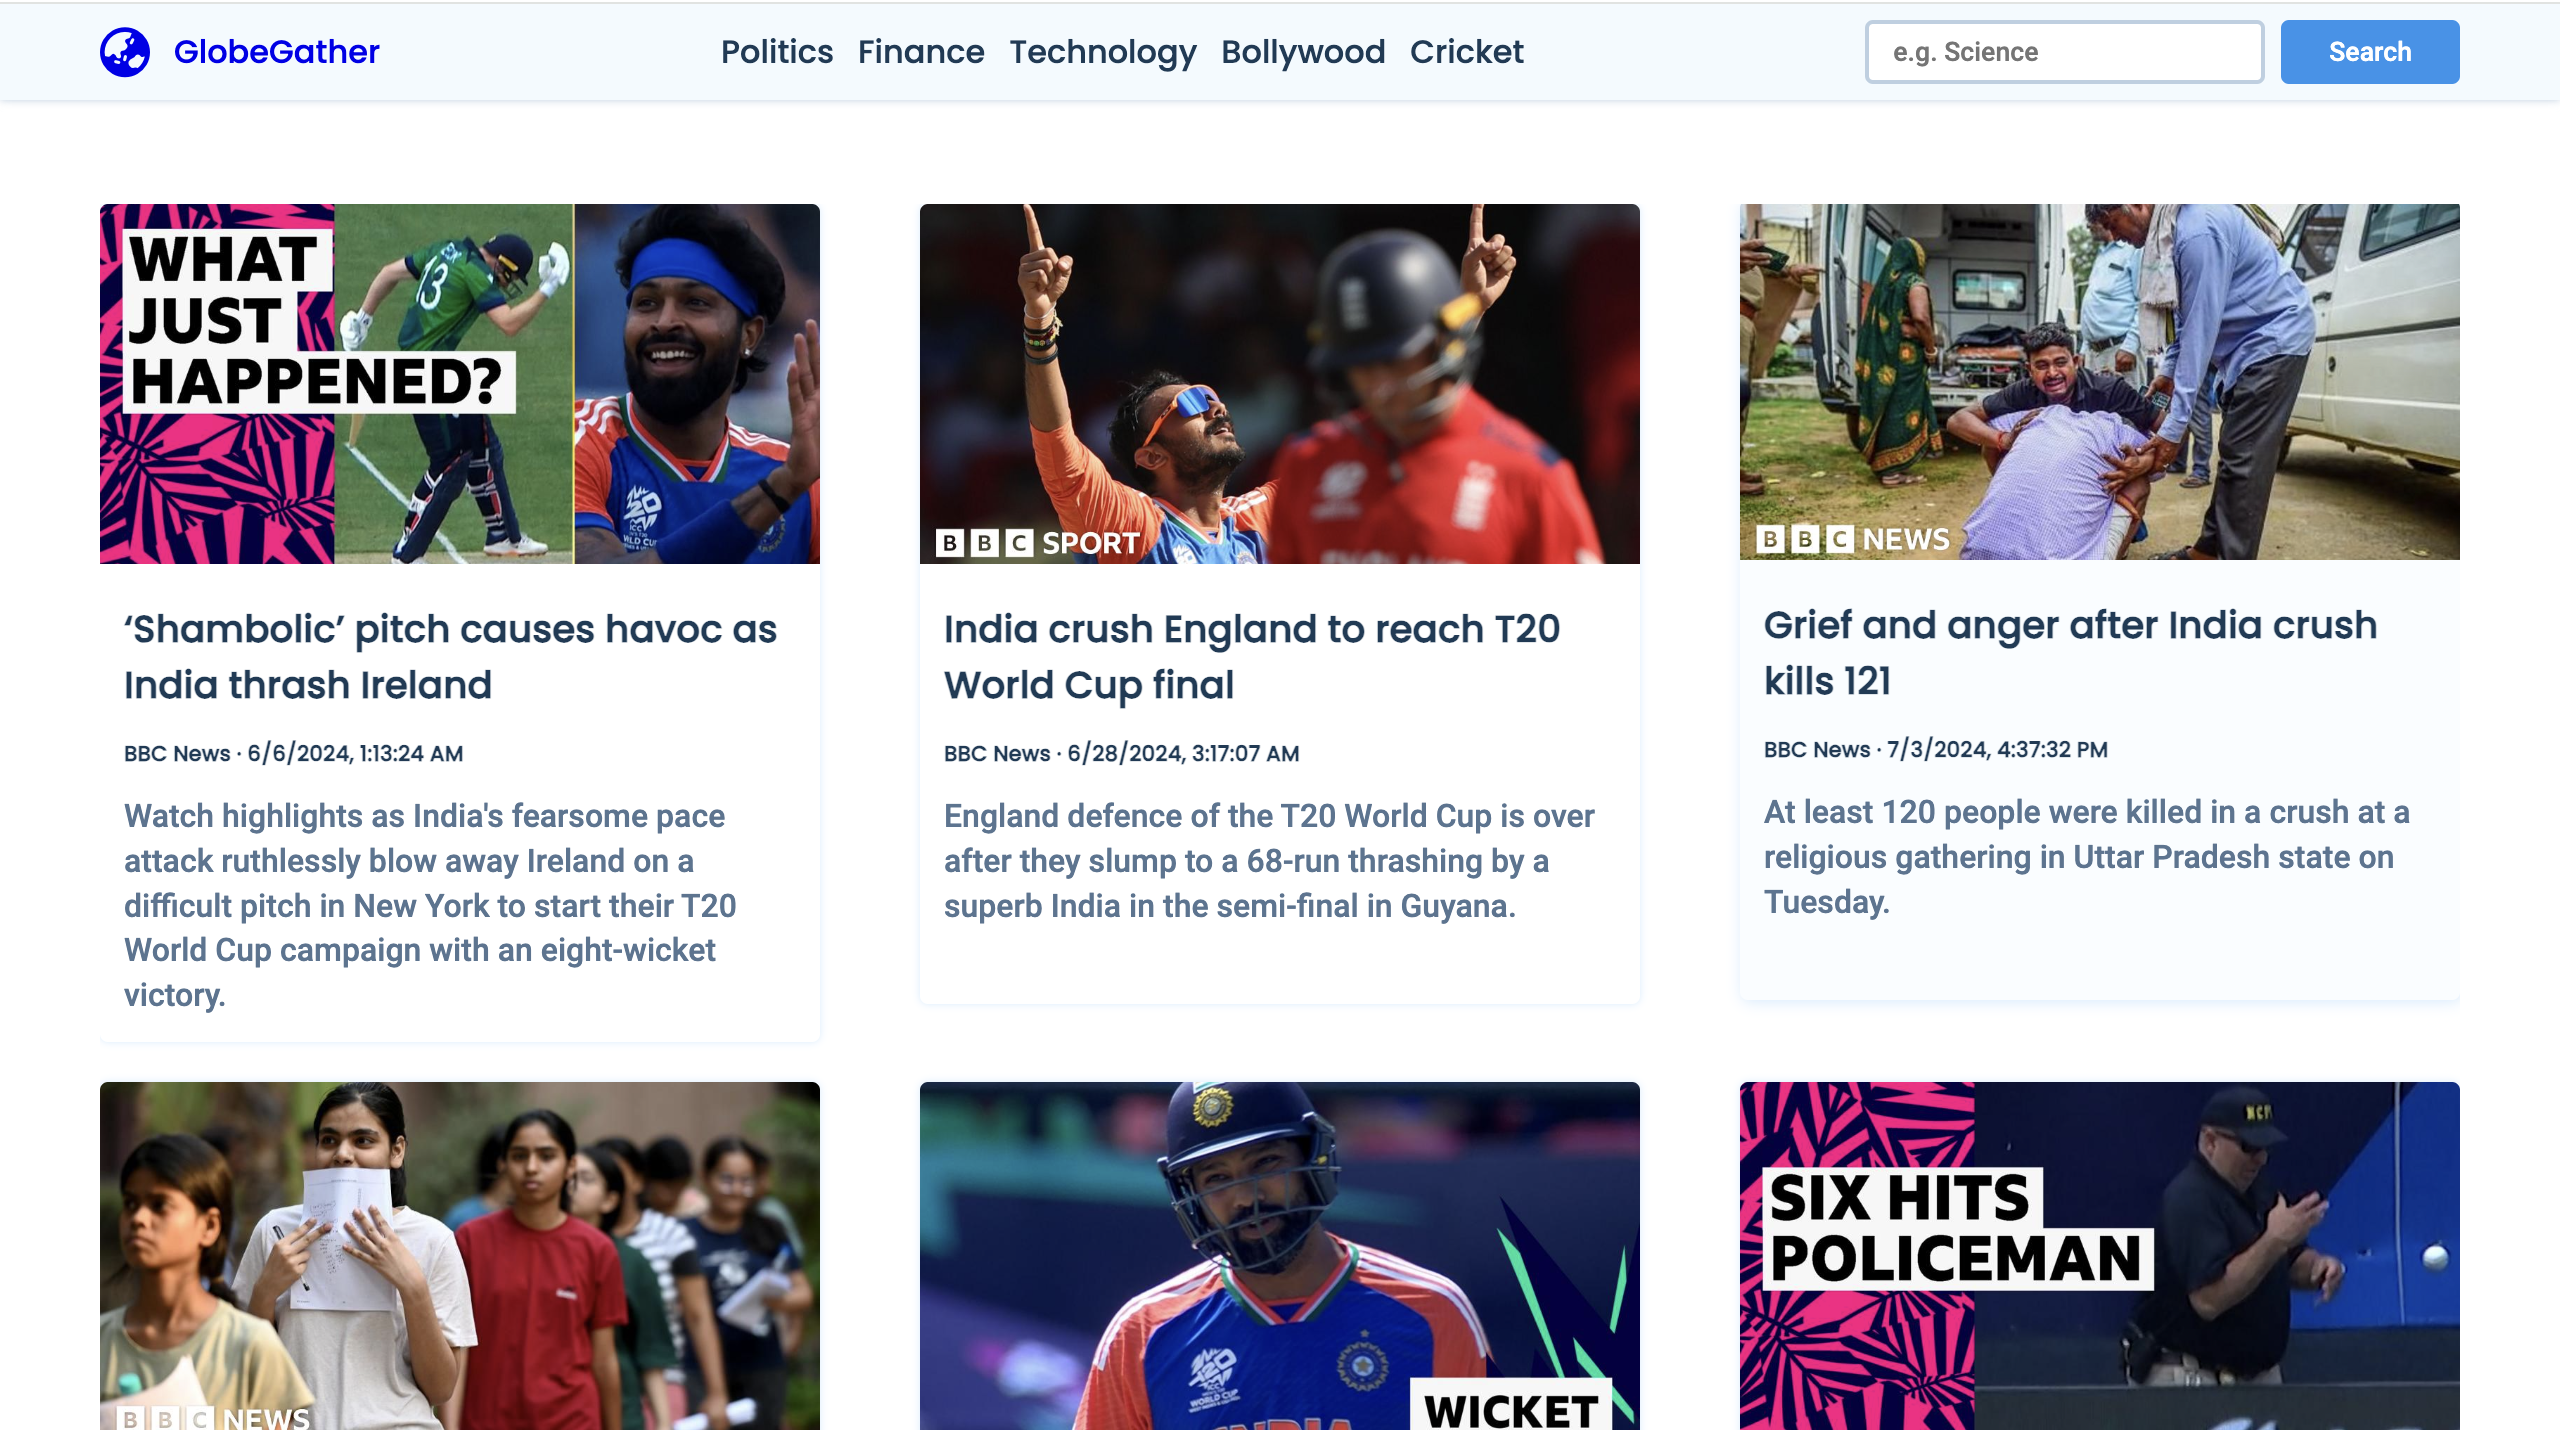
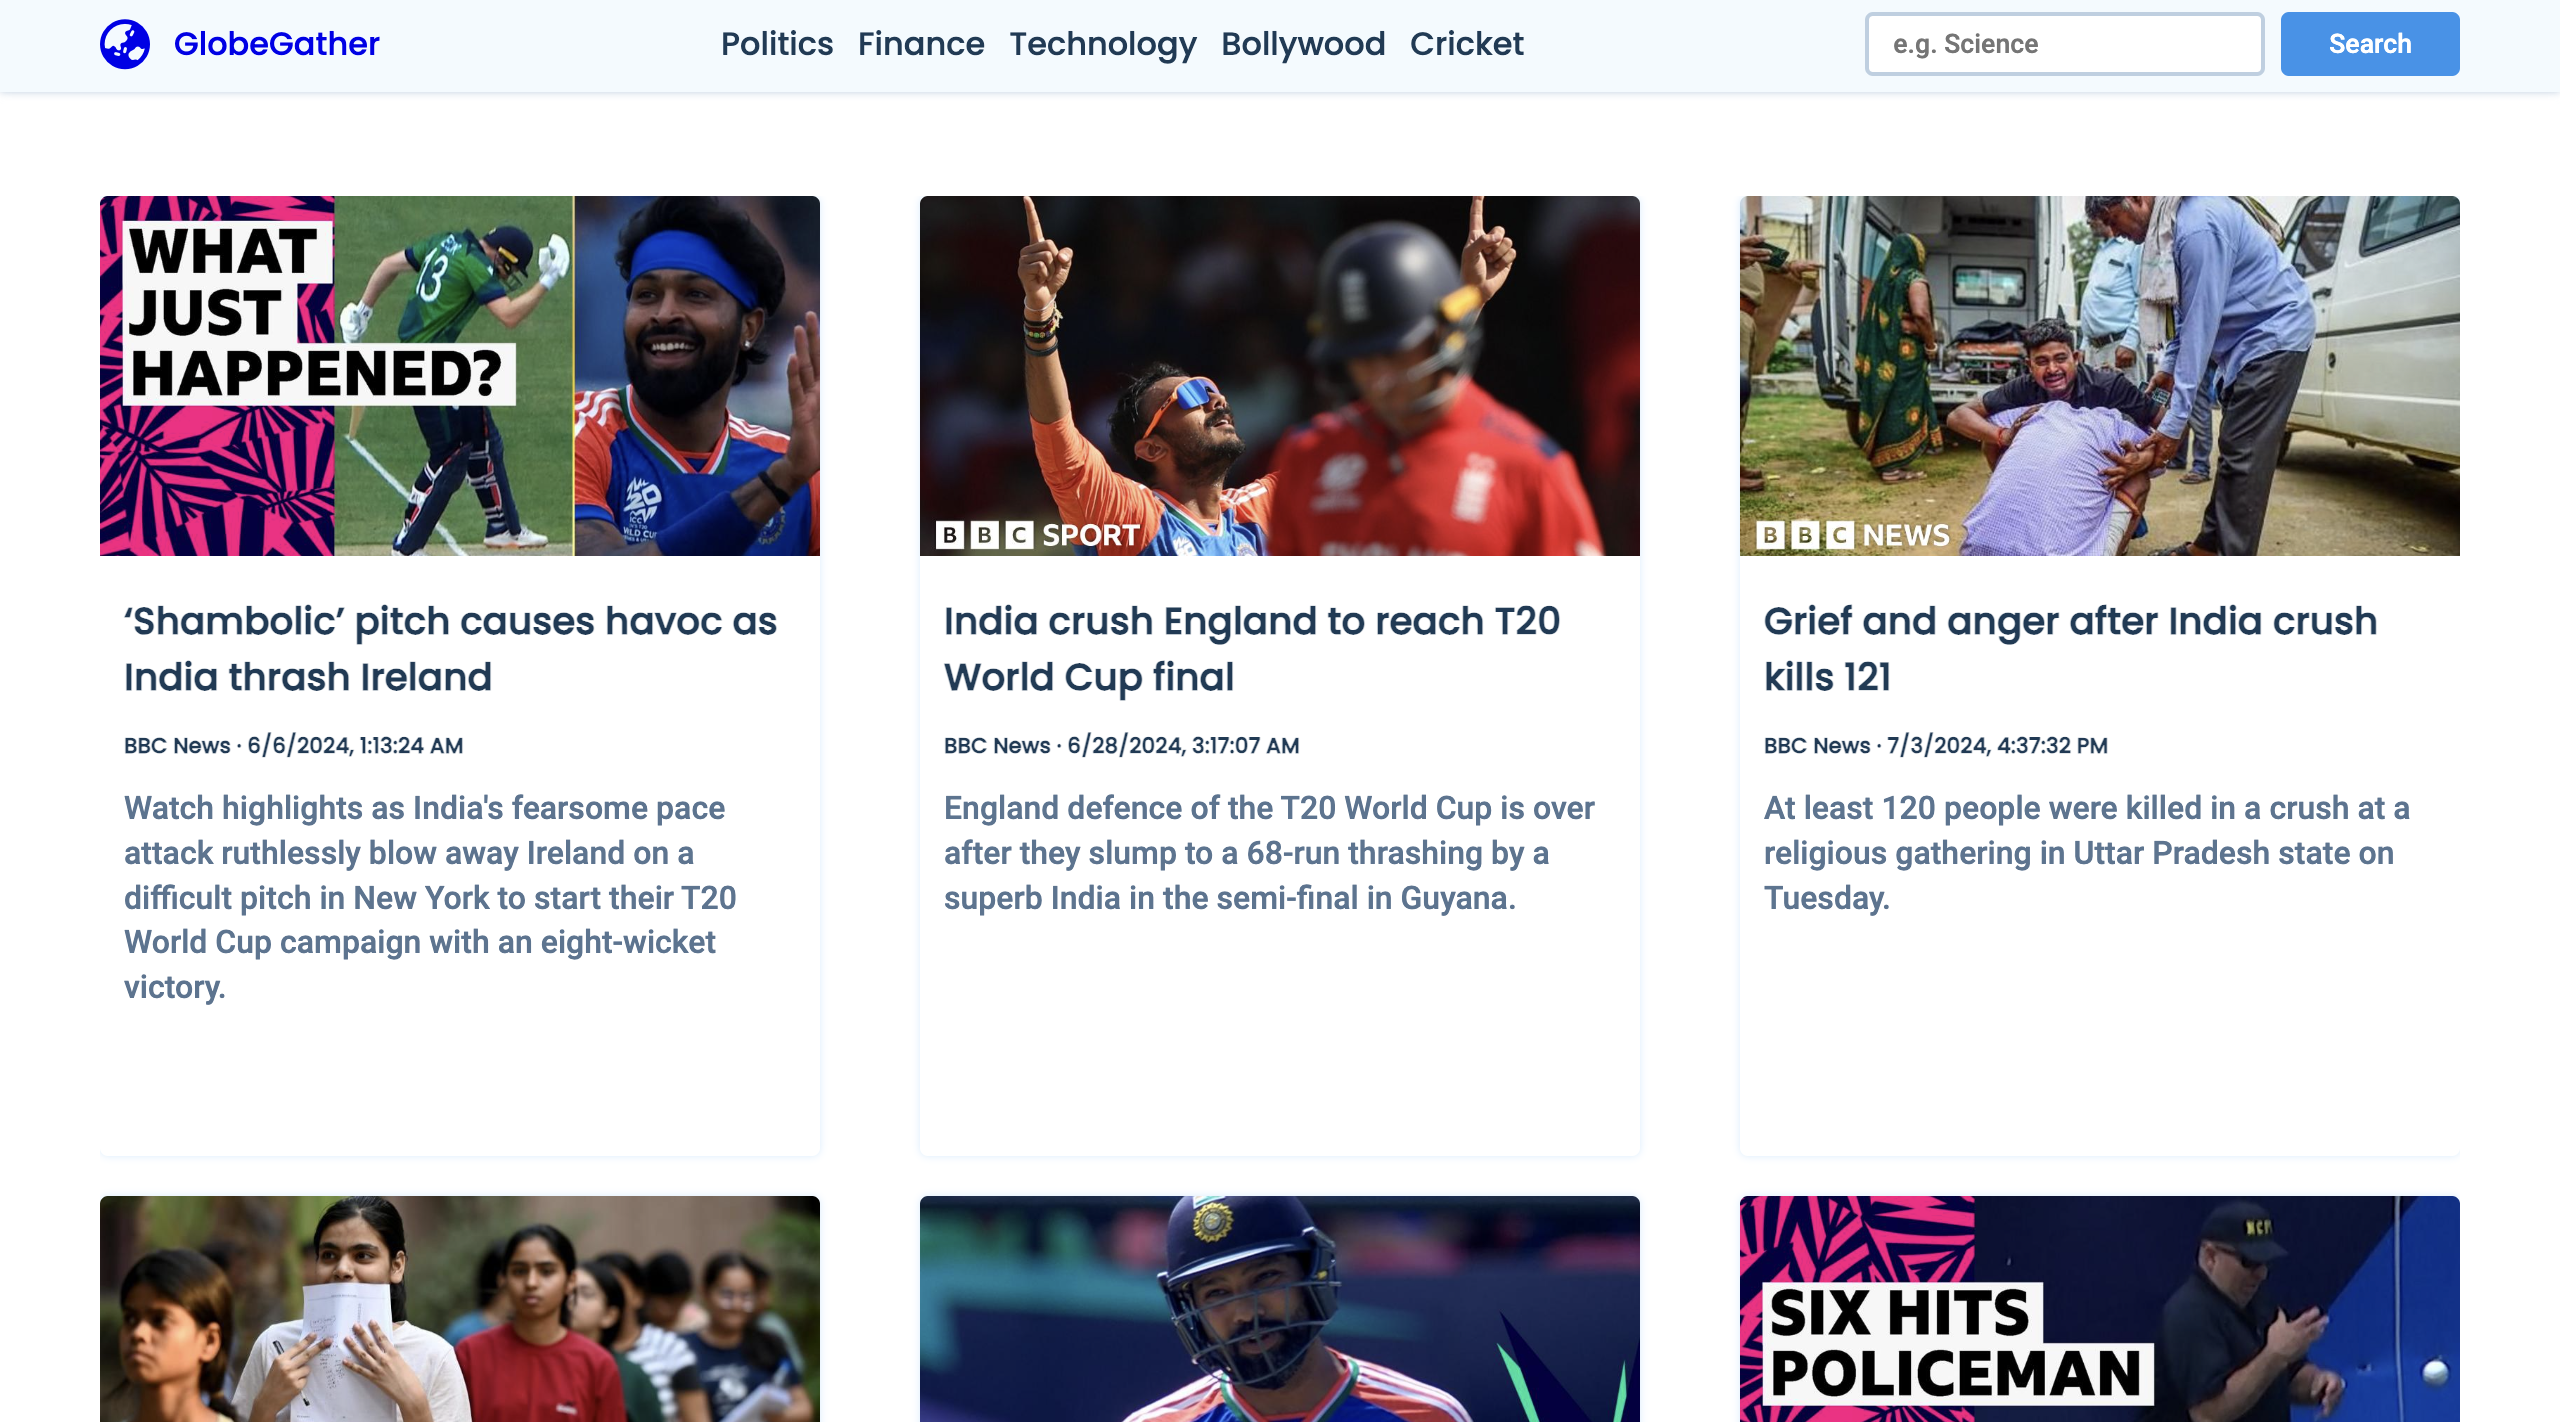
commited globegather

diff --git a/style.css b/style.css
@@ -133,8 +133,8 @@ main {
 
 .card {
     width: 360px;
-    min-height: 400px;
-    max-height: 500px;
+    min-height: 480px;
+    max-height: 480px;
     box-shadow: 0 0 4px #d4ecff;
     border-radius: 4px;
     cursor: pointer;
